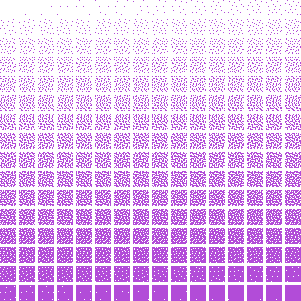
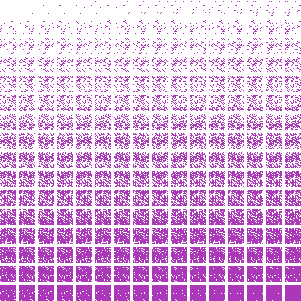
Test shuffle

diff --git a/src/wrapper/Threshold.cpp b/src/wrapper/Threshold.cpp
@@ -4,6 +4,8 @@
 #include <string>
 #include <vector>
 #include <cctype>
+#include <random>
+#include <algorithm>
 
 void Threshold::GenerateThreshold(const std::string& matrixType) {
 	m_matrixType = matrixType;
@@ -13,6 +15,11 @@ void Threshold::GenerateThreshold(const std::string& matrixType) {
 
 		m_bayerSize = std::stoi(numberPart);
 		m_bayer = GenerateBayerHalf(m_bayerSize);
+	} else if (IsValidBlueNoiseSetting(m_matrixType)) {
+		std::string numberPart = m_matrixType.substr(9);
+
+		m_blueNoiseSize = std::stoi(numberPart);
+		GenerateBlueNoise(m_blueNoiseSize);
 	}
 }
 
@@ -21,11 +28,12 @@ double Threshold::GetThreshold(const int x, const int y) const {
 	if (IsValidBayerSetting(m_matrixType)) {
 		out = static_cast<double>(m_bayer[MatrixIndex(x % m_bayerSize, y % m_bayerSize, m_bayerSize)]);
 		out /= static_cast<double>(m_bayerSize * m_bayerSize);
+	} else if (IsValidBlueNoiseSetting(m_matrixType)) {
+		out = static_cast<double>(m_blueNoise[MatrixIndex(x % m_blueNoiseSize, y % m_blueNoiseSize, m_blueNoiseSize)]);
+		out /= static_cast<double>(m_blueNoiseSize * m_blueNoiseSize);
 	} else if (m_matrixType == "ign") {
 		// https://blog.demofox.org/2022/01/01/interleaved-gradient-noise-a-different-kind-of-low-discrepancy-sequence/
 		out = std::fmod(52.9829189 * std::fmod(0.06711056 * double(x) + 0.00583715 * double(y), 1.), 1.);
-	} else if (m_matrixType == "bluenoise16") {
-		out = static_cast<double>(m_blueNoise16[MatrixIndex(x % 16, y % 16, 16)]) / 256.;
 	} else if (m_matrixType == "parkerdither") {
 		out = static_cast<double>(m_parkerDither[MatrixIndex(x % 3, y % 3, 3)]) / 50.;
 	}
@@ -52,14 +60,33 @@ bool Threshold::IsValidBayerSetting(const std::string& matrixType) {
 	return IsPowerOfTwo(size);
 }
 
+bool Threshold::IsValidBlueNoiseSetting(const std::string& matrixType) {
+	// Must be at least "bluenoiseN"
+	if (matrixType.size() <= 9) return false;
+
+	// First 9 chars must be exactly "bluenoise"
+	if (matrixType.compare(0, 9, "bluenoise") != 0) return false;
+
+	for (size_t i = 9; i < matrixType.size(); ++i) {
+		if (!std::isdigit(static_cast<unsigned char>(matrixType[i])))
+			return false;
+	}
+
+	const int size = std::stoi(matrixType.substr(9));
+
+	if (size < 2) return false;
+	return true;
+}
+
 bool Threshold::IsValidSetting(const std::string& matrixType) {
 	if (IsValidBayerSetting(matrixType)) return true;
+	if (IsValidBlueNoiseSetting(matrixType)) return true;
 
 	// settings["matrixType"] != "bluenoise16" && settings["matrixType"] != "ign"
 
-	if (matrixType == "bluenoise16") return true;
 	if (matrixType == "ign") return true;
 	if (matrixType == "parkerdither") return true;
+	//if (matrixType == "bluenoise16") return true;
 
 	return false;
 }
@@ -84,4 +111,19 @@ std::vector<unsigned int> Threshold::GenerateBayerHalf(const int n) {
 	}
 
 	return out;
+}
+
+void Threshold::GenerateBlueNoise(const int size) {
+	// https://abau.io/blog/blue_noise_dithering/
+	m_blueNoise = std::vector<unsigned int>(size * size);
+	for (size_t i = 0; i < static_cast<size_t>(size) * size; ++i) m_blueNoise[i] = static_cast<unsigned int>(i);
+
+	std::mt19937 rng(20260303);
+	std::shuffle(m_blueNoise.begin(), m_blueNoise.end(), rng);
+}
+
+double Threshold::BlueNoiseEnergy(std::vector<unsigned int>& grid, const unsigned int a, const int x, const int y) const {
+	size_t ia = static_cast<size_t>(y) * m_blueNoiseSize + x;
+
+	return 0.0;
 }

diff --git a/src/wrapper/Threshold.h b/src/wrapper/Threshold.h
@@ -18,15 +18,31 @@ public:
 
 private:
 	int m_bayerSize = 2;
+	int m_blueNoiseSize = 2;
 	std::string m_matrixType = "bayer16";
 
 	inline size_t MatrixIndex(const int x, const int y, const int size) const { return size_t(x + y * size); };
 
 	std::vector<unsigned int> GenerateBayerHalf(const int n);
+	void GenerateBlueNoise(const int size);
+
+	double BlueNoiseEnergy(std::vector<unsigned int>& grid, const unsigned int a, const int x, const int y) const;
 
 	static bool IsPowerOfTwo(const int n) { return n > 0 && (n & (n - 1)) == 0; };
 
+	/// <summary>
+	/// Any size >= 2 that is a power of 2 is allowed
+	/// </summary>
+	/// <param name="matrixType"></param>
+	/// <returns></returns>
 	static bool IsValidBayerSetting(const std::string& matrixType);
+
+	/// <summary>
+	/// Any size >= 2 is allowed
+	/// </summary>
+	/// <param name="matrixType"></param>
+	/// <returns></returns>
+	static bool IsValidBlueNoiseSetting(const std::string& matrixType);
 
 	std::vector<unsigned int> m_bayer{ 0, 2, 3, 1 };
 
@@ -48,6 +64,8 @@ private:
 		215, 232,  63, 127,  82, 237, 216, 117, 158, 255, 184,  33, 242, 102,  12, 132,
 		 75, 190,  17, 209,  47,  96,  15, 135, 230,  81,  19, 123, 224, 206, 154, 181
 	};
+
+	std::vector<unsigned int> m_blueNoise;
 
 
 	/// <summary>

diff --git a/src/misc/DevTools.cpp b/src/misc/DevTools.cpp
@@ -3,10 +3,17 @@
 #include "DevTools.h"
 
 #include "../image/Image.h"
+#include "../wrapper/Threshold.h"
+#include <cmath>
 #include <cstdint>
+#include <string>
 
 //void DevTools::GenerateGSTiles() {
 //}
+
+void DevTools::Run() {
+	GenerateBlueNoise();
+}
 
 void DevTools::GenerateGSTiles() {
 	//// https://github.com/Calinou/free-blue-noise-textures
@@ -47,5 +54,26 @@ void DevTools::GenerateGSTiles() {
 		}
 	}
 	img.Write("data/gs-tiles.png");
+}
+void DevTools::GenerateBlueNoise() {
+	const std::string type = "bluenoise16";
+	Threshold blueNoise;
+	blueNoise.GenerateThreshold(type);
+
+	const int size = 16;
+	Image img(size, size, 1);
+	for (int x = 0; x < size; ++x) {
+		for (int y = 0; y < size; ++y) {
+			double val = blueNoise.GetThreshold(x, y) + 0.5;
+			val = std::floor(val * 255.);
+			val = val > 255. ? 255. : val < 0. ? 0. : val;
+
+			const size_t index = img.GetIndex(x, y);
+			img.SetData(index, static_cast<uint8_t>(val));
+		}
+	}
+
+	std::string outputLoc = "data/dev/" + type + ".png";
+	img.Write(outputLoc.c_str());
 }
 #endif // DEV_MODE

diff --git a/src/main.cpp b/src/main.cpp
@@ -35,7 +35,7 @@ int main(int argc, char* argv[]) {
 	// For generating blue noise array from blue noise texture
 	//#define DEV_MODE
 #ifdef DEV_MODE
-	DevTools::GenerateGSTiles();
+	DevTools::Run();
 #else
 #ifdef _DEBUG
 	std::ifstream settingsLoc("data/settings.json");
@@ -68,8 +68,8 @@ int main(int argc, char* argv[]) {
 		return EXIT_FAILURE;
 	}
 
-	//std::string paletteLocStr = "data/wplace_premium.palette";
-	std::string paletteLocStr = "data/minecraft_map_sc.palette";
+	std::string paletteLocStr = "data/wplace_premium.palette";
+	//std::string paletteLocStr = "data/minecraft_map_sc.palette";
 	//std::string paletteLocStr = "data/gameboy.palette";
 	//std::string paletteLocStr = "data/bw.palette";
 	std::ifstream paletteLoc(paletteLocStr);

diff --git a/src/misc/DevTools.h b/src/misc/DevTools.h
@@ -6,7 +6,11 @@ public:
 	DevTools() {};
 	~DevTools() {};
 
+	static void Run();
+
+private:
 	static void GenerateGSTiles();
+	static void GenerateBlueNoise();
 };
 
 
